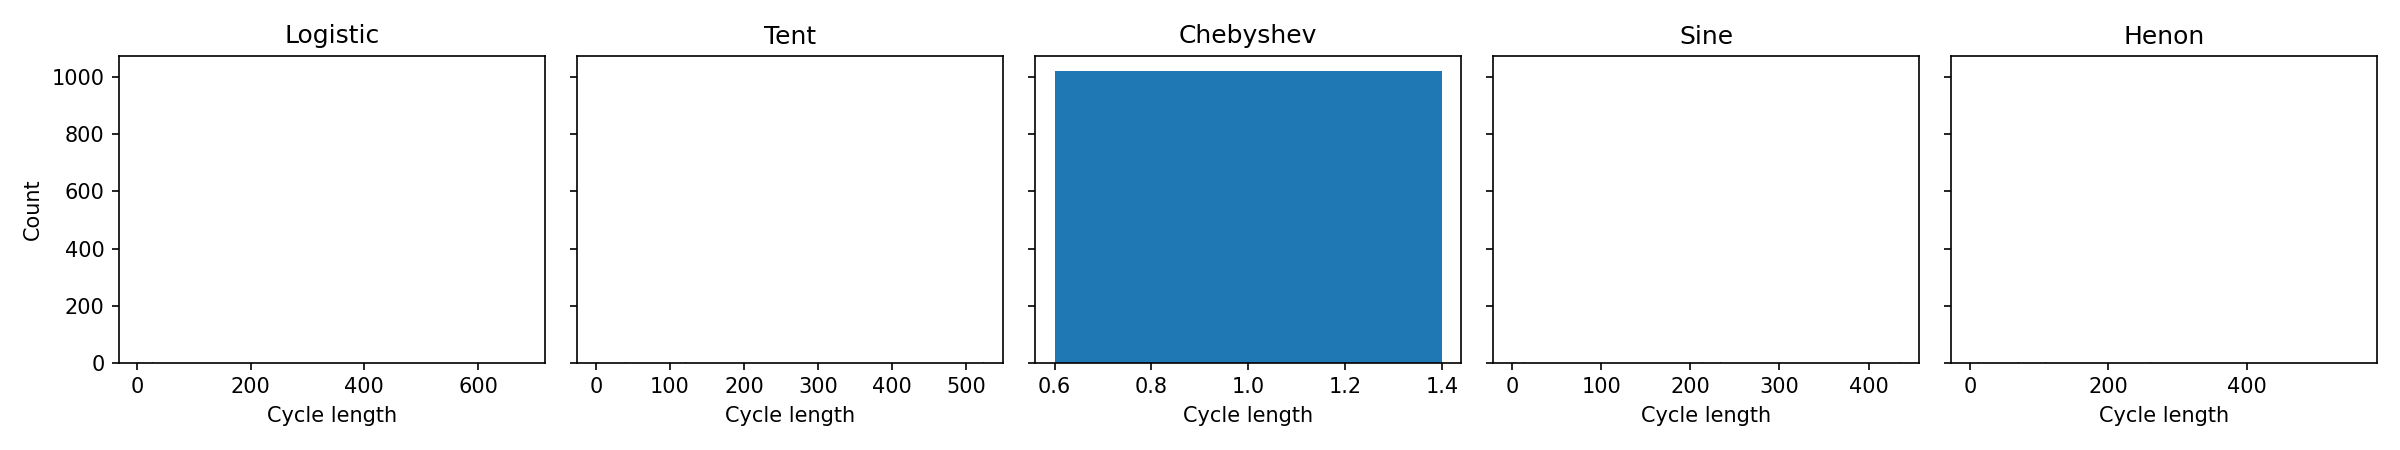
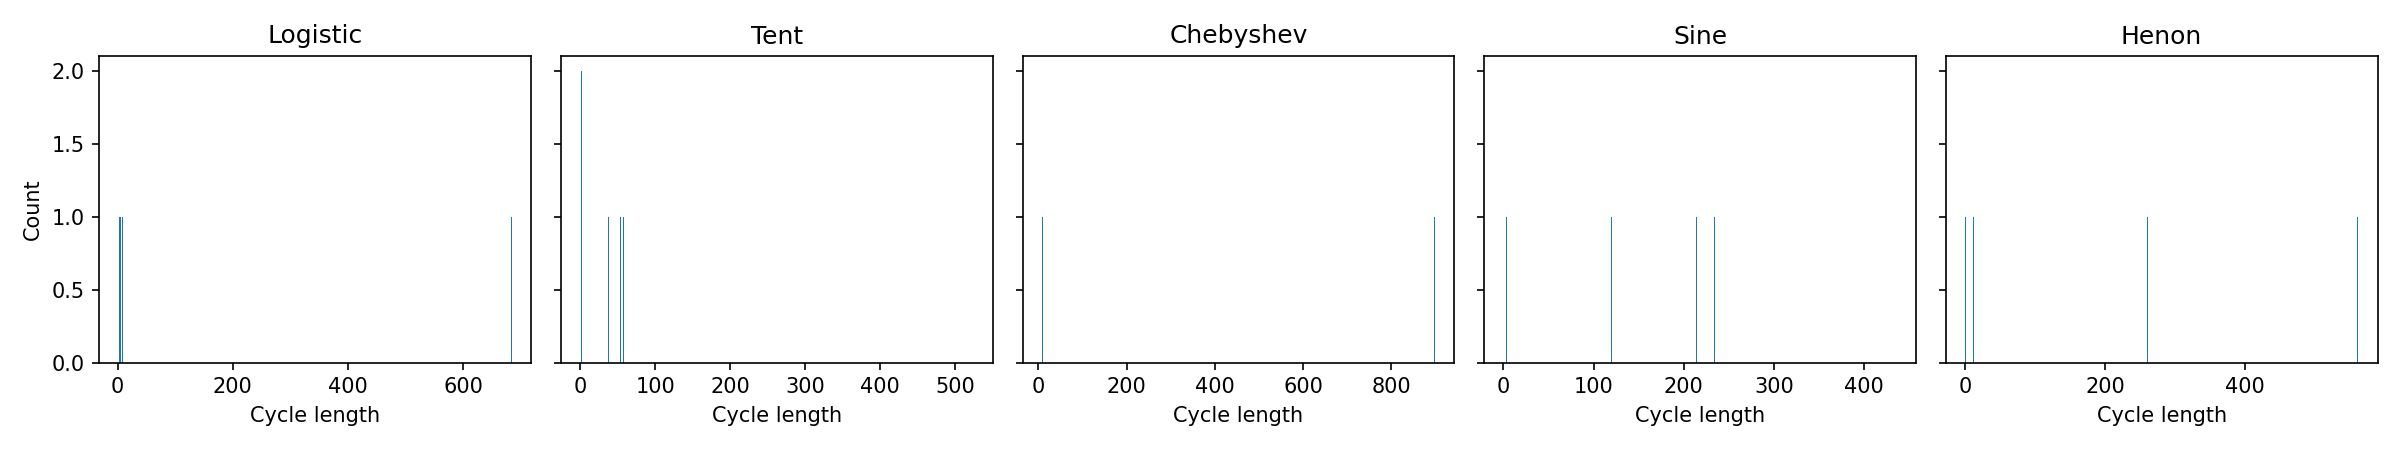
fix: Chebyshev seed 0.2 for fig2; update cover: title, header, date, delete 中国密码学会, add footnote link

diff --git a/report/main.tex b/report/main.tex
@@ -21,7 +21,7 @@
 
 \pagestyle{fancy}
 \fancyhf{}
-\fancyhead[C]{\small 第十届全国密码技术竞赛——作品设计报告}
+\fancyhead[C]{\small 密码学导论课程大作业项目报告}
 \fancyfoot[C]{\thepage}
 
 \ctexset{
@@ -36,7 +36,7 @@
 \thispagestyle{empty}
 \begin{center}
   \vspace*{1cm}
-  {\LARGE\bfseries 2025年第十届全国密码技术竞赛\\[0.3em] 作品设计报告}
+  {\LARGE\bfseries 2026年春密码学导论课程大作业项目报告\footnote{\url{https://github.com/loey1923/chaos-cycle-analysis}}}
   \vspace{2cm}
 
   \begin{tabu}{p{3cm}p{10cm}}
@@ -67,13 +67,9 @@
 
 \vfill
 \begin{center}
-  年 \quad 月 \quad 日
+  2026年6月4日
 \end{center}
 
-\vfill
-\begin{center}
-  中国密码学会
-\end{center}
 
 \newpage
 

diff --git a/main.py b/main.py
@@ -89,7 +89,7 @@ def main():
         if func is henon:
             seq = func(-0.5, 0.2, 1024, **params)
         elif func is chebyshev:
-            seq = func(0.5, 1024, **params)
+            seq = func(0.2, 1024, **params)
         else:
             seq = func(0.3, 1024, **params)
         perm = generate_permutation(seq)